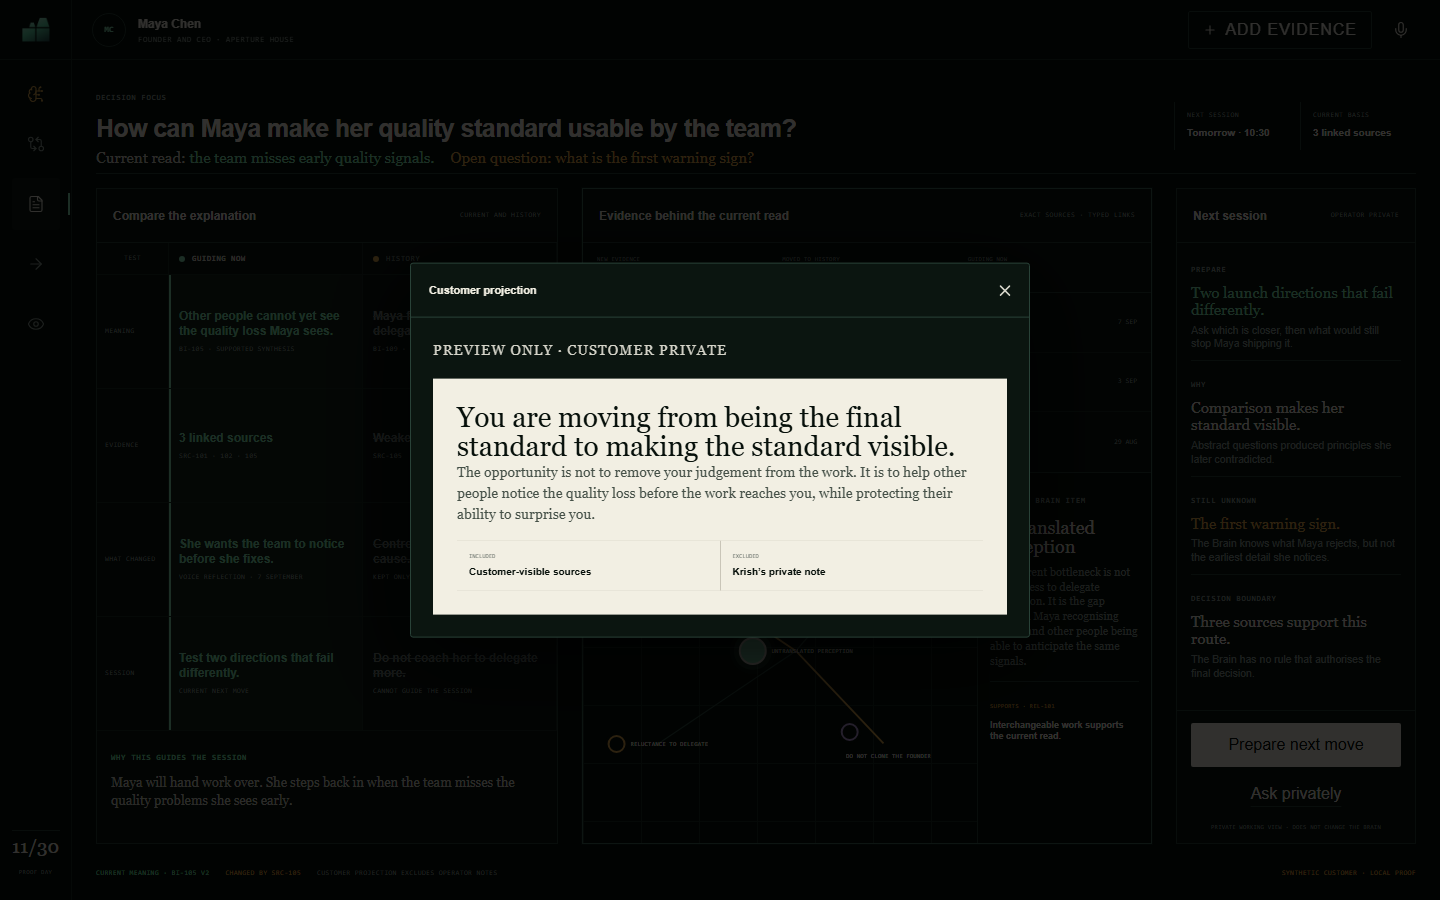
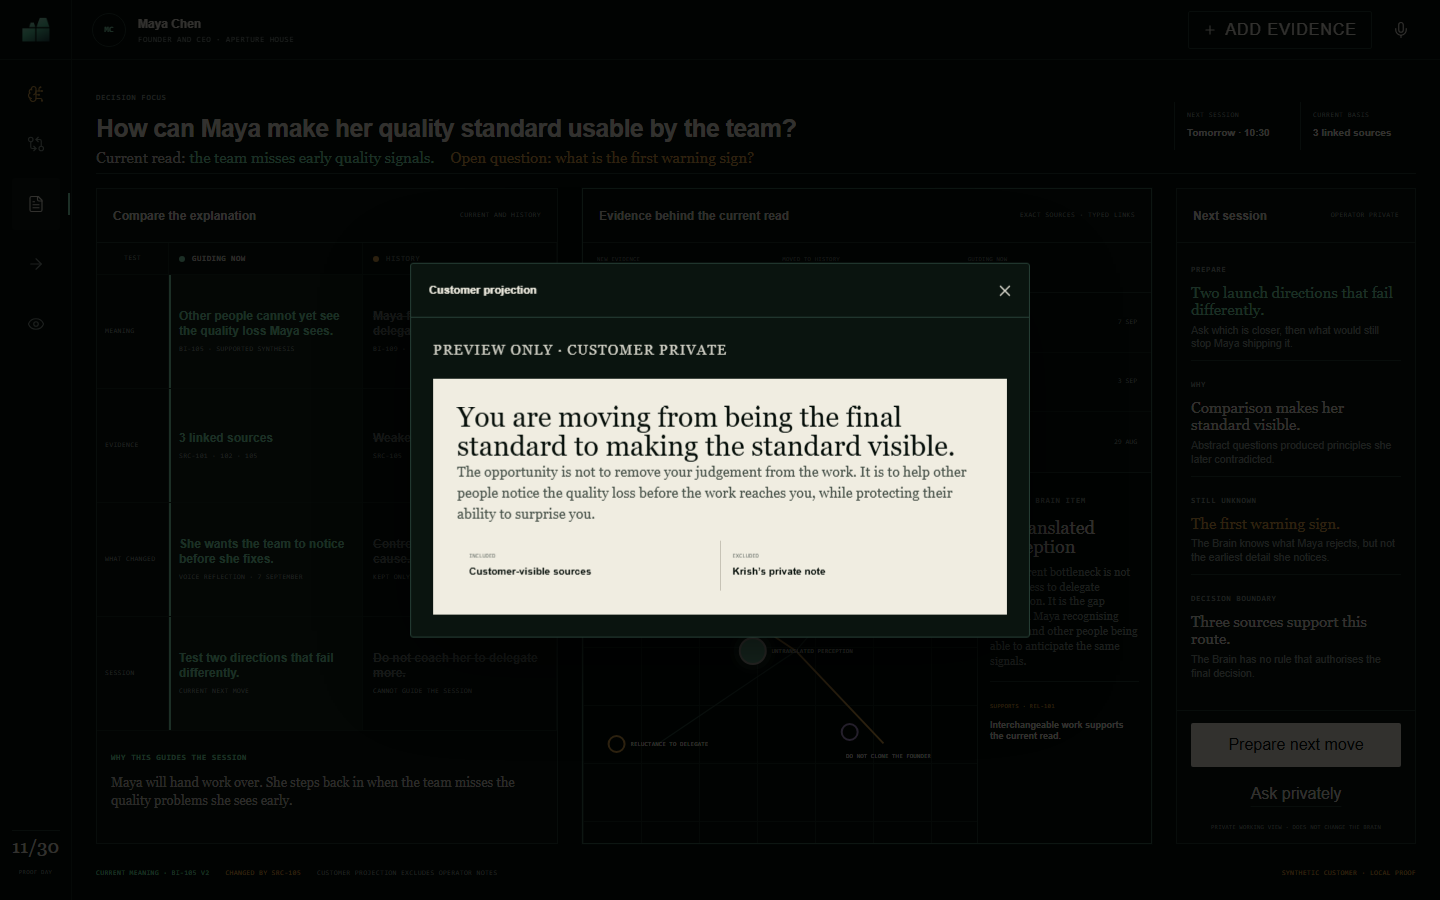
docs: record Decision Bench R3 preview gate

diff --git a/project-documentation/ctrl-evolution/README.md b/project-documentation/ctrl-evolution/README.md
@@ -16,7 +16,7 @@ This is the canonical, resumable state for the CTRL product evolution. It preven
 
 **STATE_ROUTE:** `project-documentation/ctrl-evolution/README.md`
 
-**CURRENT_PHASE:** G13 is closed at the Customer Brain material visual gate. `D-055` locks the Living Map hybrid and the founder's cold reaction on 7 September 2026, "this is awesome!", approves R2 as the governing customer-facing Brain expression. G14 founder calibration establishes the near-term operating model: Krish is the primary operator during each Mindmake thirty-day proof, one customer's Brain is the governed object, and the customer participates through deliberately lightweight moments rather than administering the system. G14 Private Brain Builder R1 and R2 are both rejected direction evidence. R2 failed because it still spent wide-screen space on large editorial declarations instead of decision support. A fresh blinded reset produced three materially different interaction spines. The two primary judges split between the Decision Bench and Decision Watershed. A third blinded tiebreak selected the Decision Bench. The new-spine Decision Bench R1 is founder-approved from the cold reaction on 8 September 2026, "looks good". It is now the governing G14 private operator direction: a no-scroll desktop instrument with simultaneous comparison, exact evidence, a focused Living Brain route, uncertainty and session preparation. Its fixture-backed React slice is implemented and verified locally and on a non-production Vercel preview. The founder's second cross-device reaction, "ok looks good", closes the React surface gate with two carry-forwards: use only the Mindmaker icon in the top-left shell, and do not mistake the synthetic rail's selection emphasis for finished product navigation. The icon-only R3 correction is implemented locally without changing the approved instrument. The slice reads only the locked synthetic fixture, is absent from product navigation and makes no database write. The next phase is the workspace-and-audience canary for the real Brain substrate; schema application remains separately gated. G15 established a provisional longitudinal construct, `Judgement Resolution`, and tested a customer expression called `Brain Resolution`. R1 failed for excessive words and insufficient visual meaning. R2 made the change legible, but its founder gate exposed a more important structural failure: as a standalone sequence it risks feeling like e-learning about small workflow moments when CTRL exists to help with consequential million-dollar decisions. The useful old-view, correction and current-view mechanism is retained only as a subordinate change trace. No G15 R3 standalone receipt will be produced. The provisional metric remains an internal hypothesis rather than a customer-facing claim. The identity fork remains resolved for the build: Mindy is scrapped; CTRL is provisional; final naming returns at pre-launch GTM. Production schema changes, real test-account creation, GitHub App or customer-repository creation, authenticated integration and release remain separately gated.
+**CURRENT_PHASE:** G13 is closed at the Customer Brain material visual gate. `D-055` locks the Living Map hybrid and the founder's cold reaction on 7 September 2026, "this is awesome!", approves R2 as the governing customer-facing Brain expression. G14 founder calibration establishes the near-term operating model: Krish is the primary operator during each Mindmake thirty-day proof, one customer's Brain is the governed object, and the customer participates through deliberately lightweight moments rather than administering the system. G14 Private Brain Builder R1 and R2 are both rejected direction evidence. R2 failed because it still spent wide-screen space on large editorial declarations instead of decision support. A fresh blinded reset produced three materially different interaction spines. The two primary judges split between the Decision Bench and Decision Watershed. A third blinded tiebreak selected the Decision Bench. The new-spine Decision Bench R1 is founder-approved from the cold reaction on 8 September 2026, "looks good". It is now the governing G14 private operator direction: a no-scroll desktop instrument with simultaneous comparison, exact evidence, a focused Living Brain route, uncertainty and session preparation. Its fixture-backed React slice is implemented and verified locally and on a non-production Vercel preview. The founder's second cross-device reaction, "ok looks good", closes the React surface gate with two carry-forwards: use only the Mindmaker icon in the top-left shell, and do not mistake the synthetic rail's selection emphasis for finished product navigation. The icon-only R3 correction is verified locally and on a fresh cross-device preview without changing the approved instrument. The slice reads only the locked synthetic fixture, is absent from product navigation and makes no database write. The next phase is the workspace-and-audience canary for the real Brain substrate; schema application remains separately gated. G15 established a provisional longitudinal construct, `Judgement Resolution`, and tested a customer expression called `Brain Resolution`. R1 failed for excessive words and insufficient visual meaning. R2 made the change legible, but its founder gate exposed a more important structural failure: as a standalone sequence it risks feeling like e-learning about small workflow moments when CTRL exists to help with consequential million-dollar decisions. The useful old-view, correction and current-view mechanism is retained only as a subordinate change trace. No G15 R3 standalone receipt will be produced. The provisional metric remains an internal hypothesis rather than a customer-facing claim. The identity fork remains resolved for the build: Mindy is scrapped; CTRL is provisional; final naming returns at pre-launch GTM. Production schema changes, real test-account creation, GitHub App or customer-repository creation, authenticated integration and release remain separately gated.
 
 **CANONICAL_LEDGER_SYNC:** `STORE_UNAVAILABLE` for writes. The verified Supabase target still reports `M-013` v1 `in_progress` and no `M-014`. The official connector accepted readback but refused the append because its current transaction is read-only. No partial write occurred. Git commit `03830d6d18c91ad2a495f50cdfe2e61b872ac734` preserves the reviewed R2 artifact. When write access is restored, append `M-013` v2 `complete`; append `M-014` v1 `complete` with the founder's R1 correction and R2 approval; and open `M-015` v1 `in_progress` with the G14 founder calibration and Private Brain Builder material gate. Proposed `D-056` makes the personal becoming portrait and transparent, inspectable Living Brain the governing customer-facing My Brain experience. Proposed `D-057` makes Krish's private per-customer Brain Builder the primary near-term operating surface during the Mindmake thirty-day proof, while the customer participates through low-friction moments and receives governed Brain expressions. Both remain proposed-only until authoritative write and readback succeed. The finalized naming decision is preserved locally as proposed canonical record `DEC-20260907-defer-product-naming`: Mindy is excluded, CTRL remains provisional, and naming reopens at pre-launch GTM. It also remains proposed-only until the configured decision-ledger adapter can append and read it back. Do not use or recover access from any credential exposed in conversation.
 

diff --git a/project-documentation/ctrl-evolution/design/g14-decision-bench-react-r3-founder-gate.md b/project-documentation/ctrl-evolution/design/g14-decision-bench-react-r3-founder-gate.md
@@ -2,7 +2,7 @@
 
 Date: 8 September 2026
 
-Status: direction approved; routine identity correction implemented locally; production navigation deferred
+Status: direction approved; routine identity correction verified locally and remotely; production navigation deferred
 
 ## Reviewed baseline
 
@@ -42,3 +42,12 @@ Against baseline `06da30e3d0708e9df1e205699d951f70a06999a1`:
 This founder gate closes the synthetic React surface review. It authorises the routine icon correction and progression to the real Brain substrate design. It does not approve the existing rail as production navigation and does not authorise schema application, real customer data, authenticated access, production deployment or release.
 
 The next bounded action is the workspace-and-audience canary: turn the approved G13 physical model into a migration candidate and deterministic negative-access test pack, then bring the exact schema mutation to its separate approval gate before applying it anywhere.
+
+## Verified R3 implementation
+
+- source commit: `c5e6150d1388204aae34adfd7e39bc8bcd4b23dd`
+- non-production deployment: `dpl_36WxLrsNwwrw5yqk7bexLdM3bfyW`
+- deployment URL: `https://mm-ctrl-77s1ztkfl-krish-rajas-projects.vercel.app`
+- cross-device access: preview-scoped share link active until 8 October 2026; its token is deliberately excluded from the repository
+- clean-browser gate: passed on desktop, mobile and low-height view, including icon-only identity, opaque customer projection, fixture containment, responsive work-region switching and every honest system state
+- production: untouched
